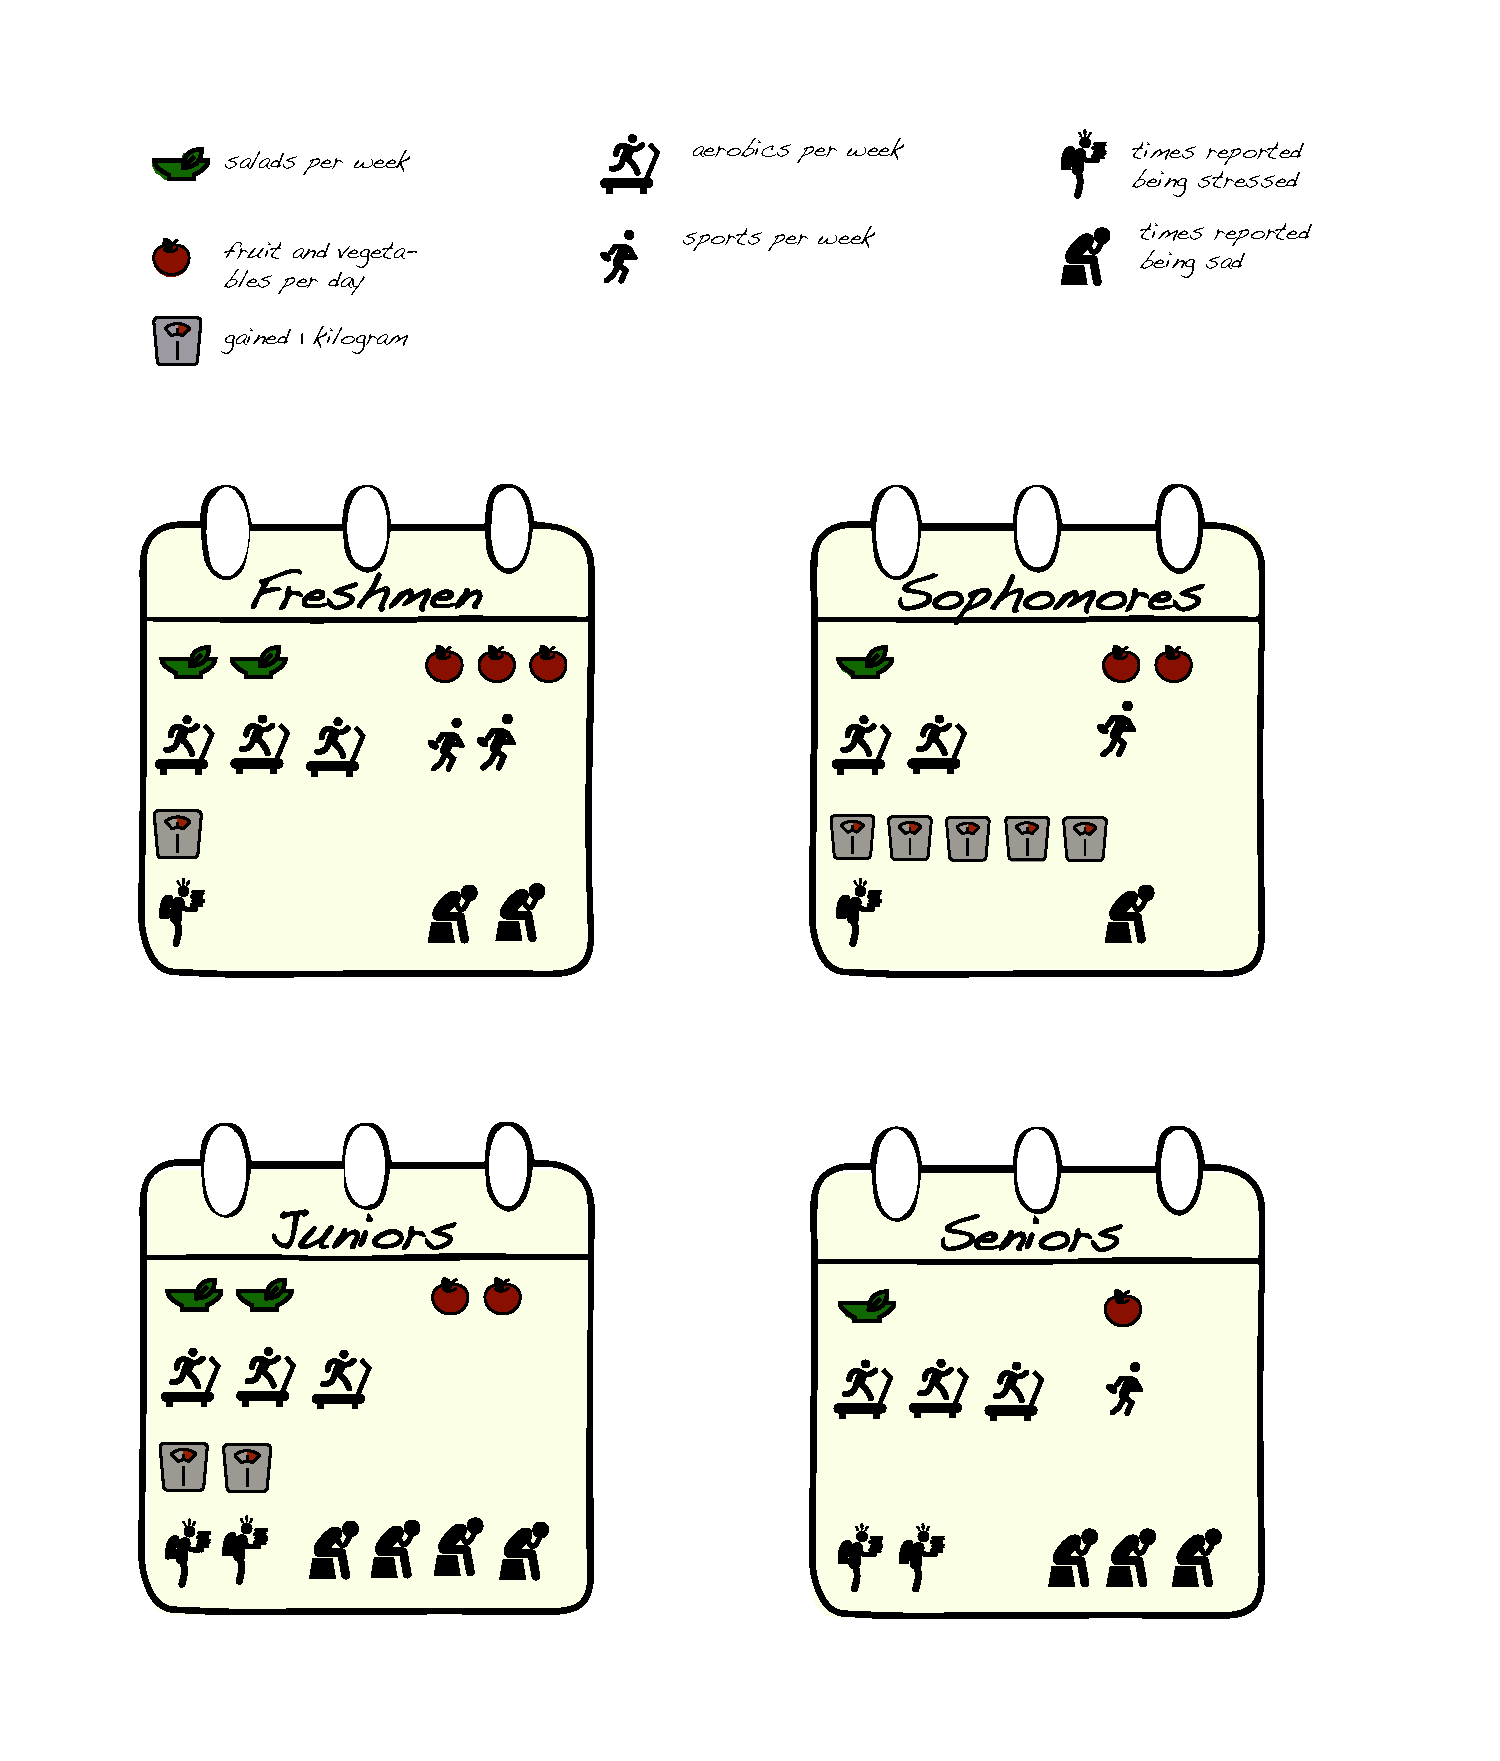
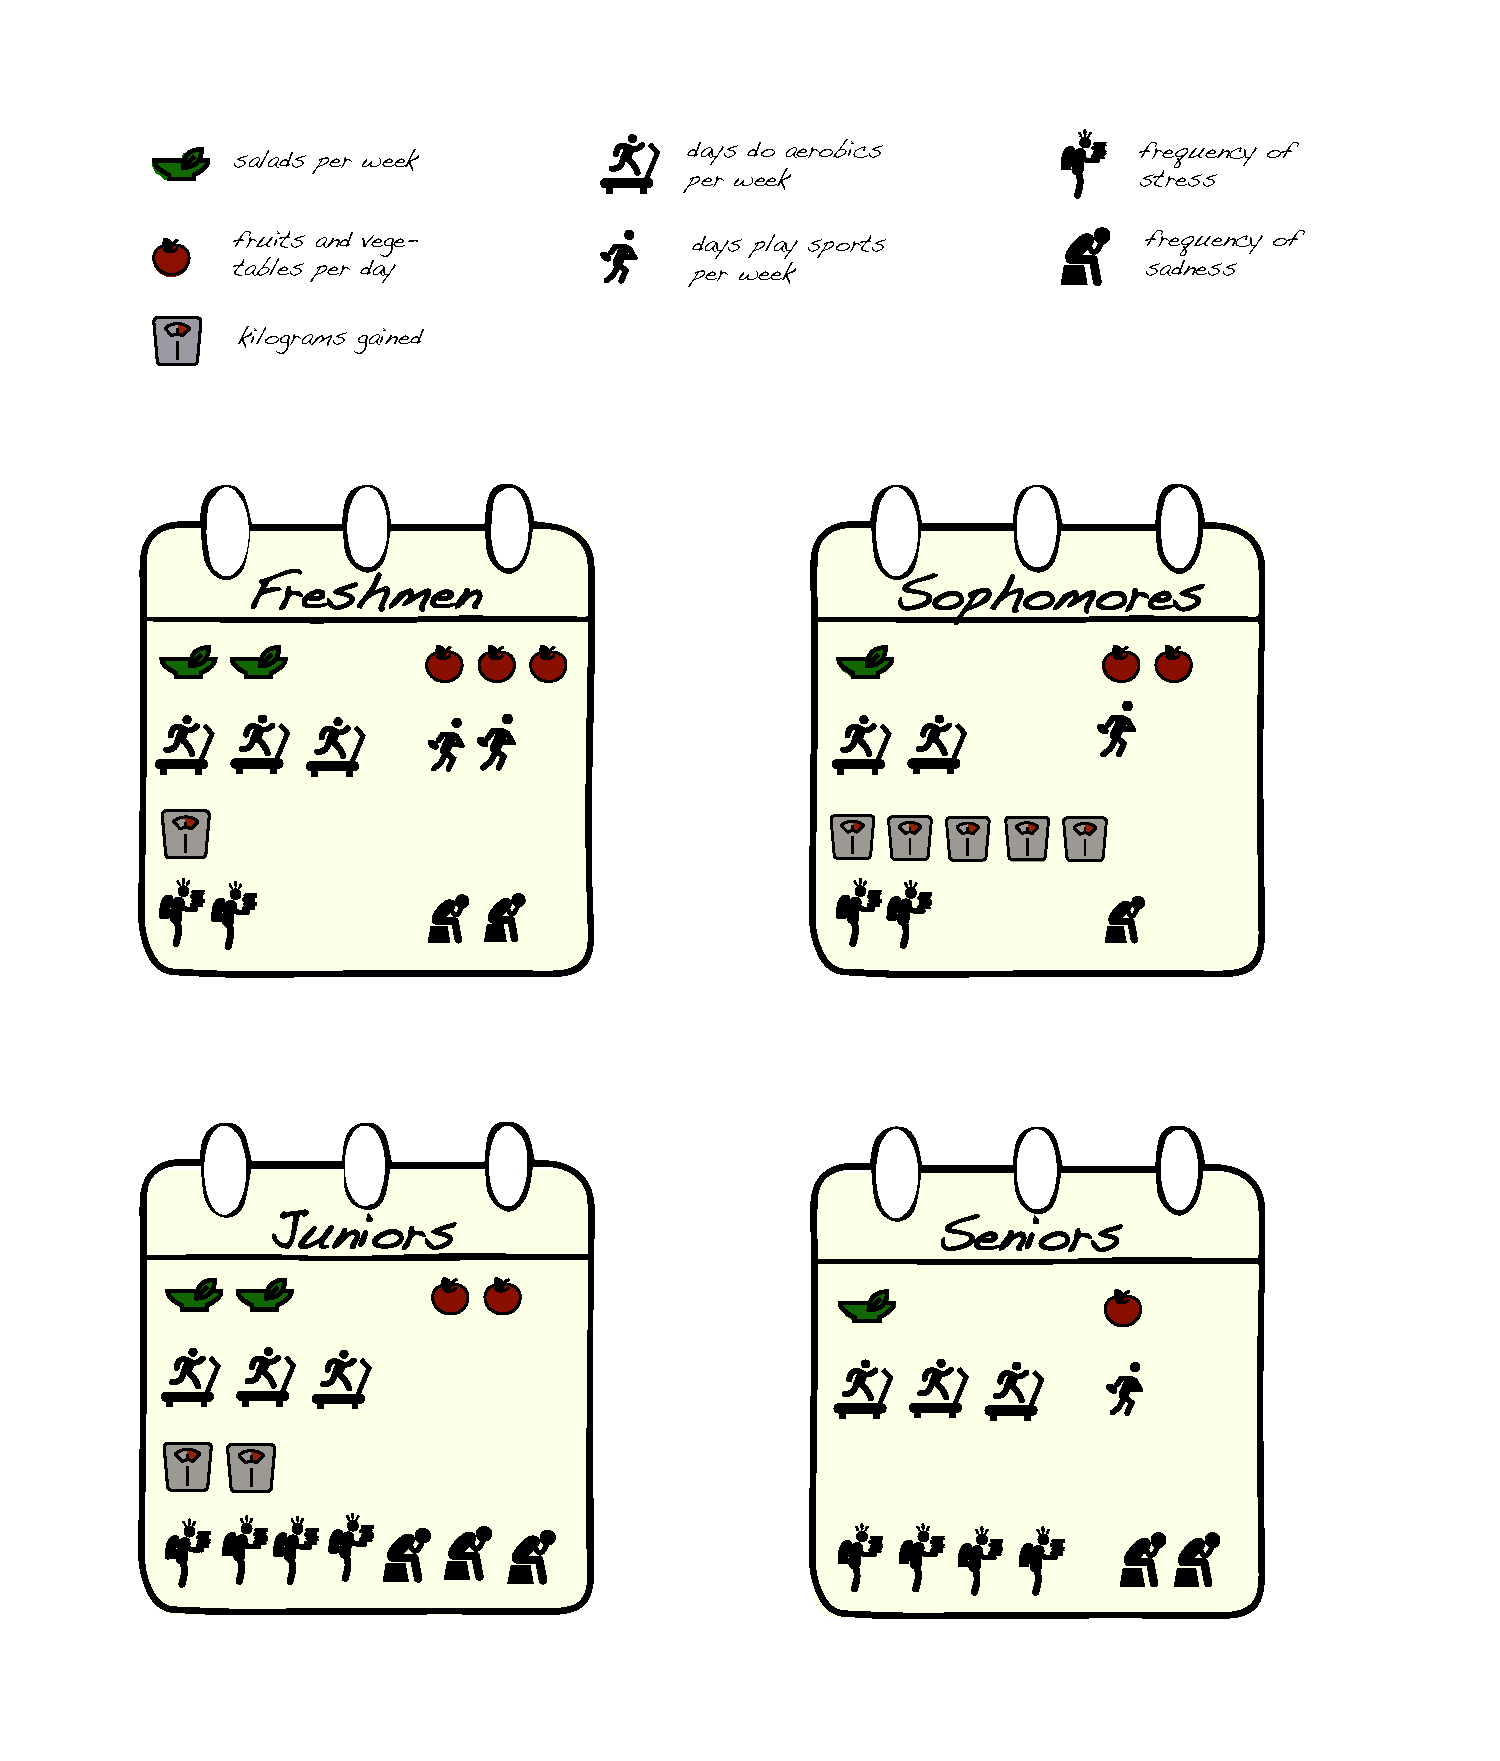
Add files via upload

diff --git a/docs/project-4/index.md b/docs/project-4/index.md
@@ -1,25 +1,29 @@
 
-Lorem Ipsum is simply dummy text of the printing and typesetting industry. Lorem Ipsum has been the industry's standard dummy text ever since the 1500s, when an unknown printer took a galley of type and scrambled it to make a type specimen book. It has survived not only five centuries, but also the leap into electronic typesetting, remaining essentially unchanged. It was popularised in the 1960s with the release of Letraset sheets containing Lorem Ipsum passages, and more recently with desktop publishing software like Aldus PageMaker including versions of Lorem Ipsum.
+# What seniors should learn from freshmen?
 
-Lorem Ipsum is simply dummy text of the printing and typesetting industry. Lorem Ipsum has been the industry's standard dummy text ever since the 1500s, when an unknown printer took a galley of type and scrambled it to make a type specimen book. It has survived not only five centuries, but also the leap into electronic typesetting, remaining essentially unchanged. It was popularised in the 1960s with the release of Letraset sheets containing Lorem Ipsum passages, and more recently with desktop publishing software like Aldus PageMaker including versions of Lorem Ipsum.
+As the beginning of the academic year approaches, what should students prepare for or be cautious about during the upcoming months? In this project I analysed data collected by MIT’s Human Dynamics Laboratory (http://hd.media.mit.edu/) which cover the dynamics of 70 residents of an undergraduate dormitory during the academic year 2008-2009. This dataset contains surveys and sensor data about the diffusion of political opinions, diet, exercise, obesity, eating habits, epidemiological contagion, depression and stress, among the students. 
+
+In this analysis I used data from self-reported surveys to investigate the diet habits, the frequency of exercise and the emotions of students during the four years of their studies. From a quick overview of the results freshmen play the most sports, sophomores gain the most weight, juniors are sad more often and seniors eat the least healthy food.
+
+## In detail
+
+Freshmen reported that they consume on average three portions of fruits and vegetables every day and two salads every week. During the week they play sports twice and they do at least 20 minutes of aerobic exercise three times a week. In the course of the academic year they tend not to gain a lot of weight, just one kilogram on average. During the spring semester they reported being stressed 7 days, and sad 8 days. 
 
 ![](Artboard_fresh.png)
 
-Lorem Ipsum is simply dummy text of the printing and typesetting industry. Lorem Ipsum has been the industry's standard dummy text ever since the 1500s, when an unknown printer took a galley of type and scrambled it to make a type specimen book. It has survived not only five centuries, but also the leap into electronic typesetting, remaining essentially unchanged. It was popularised in the 1960s with the release of Letraset sheets containing Lorem Ipsum passages, and more recently with desktop publishing software like Aldus PageMaker including versions of Lorem Ipsum.
+Sophomores reported that they consume on average two portions of fruits and vegetables every day and just on salad per week. During the week they play sports only once and they do at least 20 minutes of aerobic exercise two times a week. In the course of the academic year they tend to gain a lot of weight, about 5 kilogram on average. During the spring semester they reported being stressed 8 days, and sad only 3 days. 
 
 ![](Artboard_soph.png)
 
-Lorem Ipsum is simply dummy text of the printing and typesetting industry. Lorem Ipsum has been the industry's standard dummy text ever since the 1500s, when an unknown printer took a galley of type and scrambled it to make a type specimen book. It has survived not only five centuries, but also the leap into electronic typesetting, remaining essentially unchanged. It was popularised in the 1960s with the release of Letraset sheets containing Lorem Ipsum passages, and more recently with desktop publishing software like Aldus PageMaker including versions of Lorem Ipsum.
+Juniors reported that they consume on average two portions of fruits and vegetables every day and two salads per week. During the week they don’t play any sports and they do at least 20 minutes of aerobic exercise three times a week. In the course of the academic year they tend to gain about 2 kilograms in body weight. During the spring semester they reported being stressed 19 days, and sad 13 days. 
 
 ![](Artboard_junior.png)
 
-Lorem Ipsum is simply dummy text of the printing and typesetting industry. Lorem Ipsum has been the industry's standard dummy text ever since the 1500s, when an unknown printer took a galley of type and scrambled it to make a type specimen book. It has survived not only five centuries, but also the leap into electronic typesetting, remaining essentially unchanged. It was popularised in the 1960s with the release of Letraset sheets containing Lorem Ipsum passages, and more recently with desktop publishing software like Aldus PageMaker including versions of Lorem Ipsum.
+Seniors reported that they consume on average one portion of fruits and vegetables every day and one salad per week. During the week they play sports once and they do at least 20 minutes of aerobic exercise three times a week. In the course of the academic year they tend to gain about 1 kilogram in body weight. During the spring semester they reported being stressed 18 days, and sad 10 days. 
 
 ![](Artboard_seniors.png)
 
-Lorem Ipsum is simply dummy text of the printing and typesetting industry. Lorem Ipsum has been the industry's standard dummy text ever since the 1500s, when an unknown printer took a galley of type and scrambled it to make a type specimen book. It has survived not only five centuries, but also the leap into electronic typesetting, remaining essentially unchanged. It was popularised in the 1960s with the release of Letraset sheets containing Lorem Ipsum passages, and more recently with desktop publishing software like Aldus PageMaker including versions of Lorem Ipsum.
 
-![](Artboard_all.png)
 
 
 
